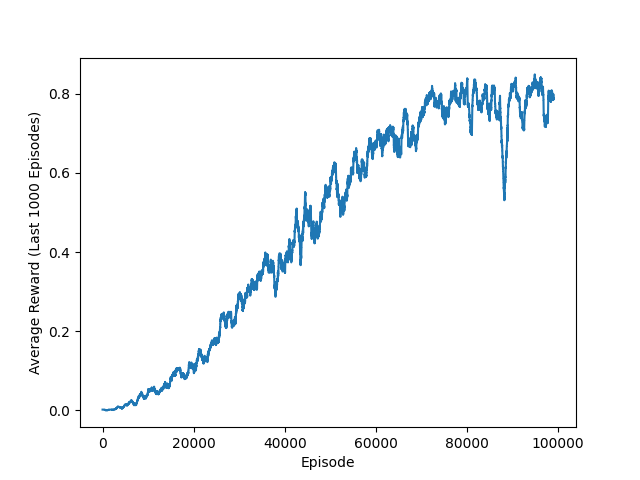
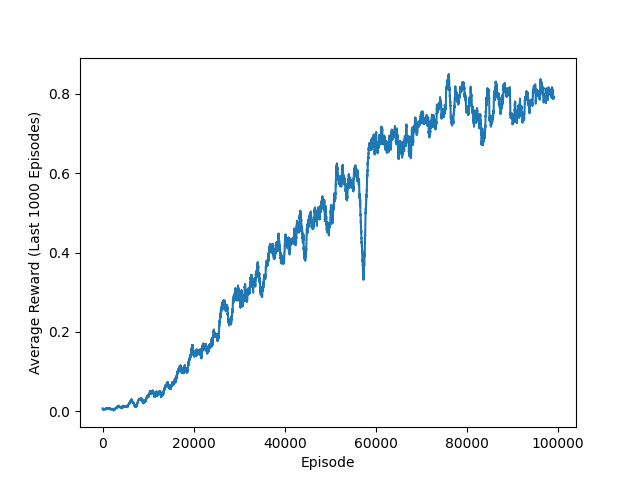
Fixed errors with SARSA implementation

diff --git a/FrozenLake/SARSA/SARSA.py b/FrozenLake/SARSA/SARSA.py
@@ -72,9 +72,7 @@ def update_q_value(
     hp: Hyperparameters,
 ) -> float:
     return q[state, action] + hp.learning_rate * (
-        reward
-        + hp.discount_factor * np.max(q[next_state, next_action])
-        - q[state, action]
+        reward + hp.discount_factor * q[next_state, next_action] - q[state, action]
     )
 
 
@@ -191,5 +189,15 @@ if __name__ == "__main__":
         render=False,
         verbose=True,
     )
+    """
     # For evaluation
-    # q, rewards = run(1, hp, save_table="qLearning.pkl", save_plot="qLearning.png", is_training=False, render=True, verbose=False)
+    q, rewards = run(
+        1,
+        hp,
+        save_table="SARSA.pkl",
+        save_plot="SARSA.png",
+        is_training=False,
+        render=True,
+        verbose=False,
+    )
+    """
